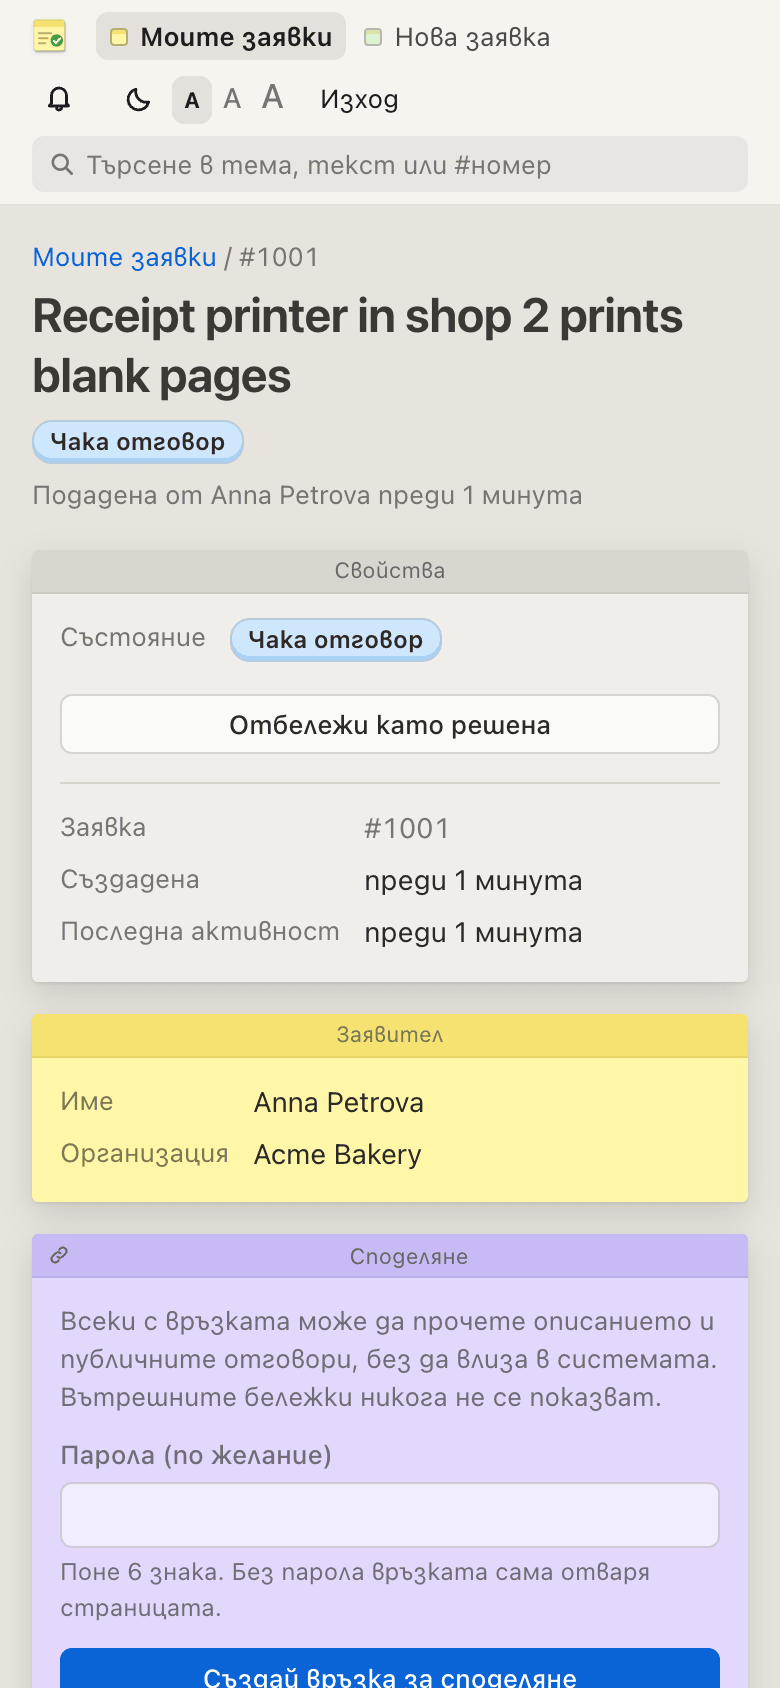
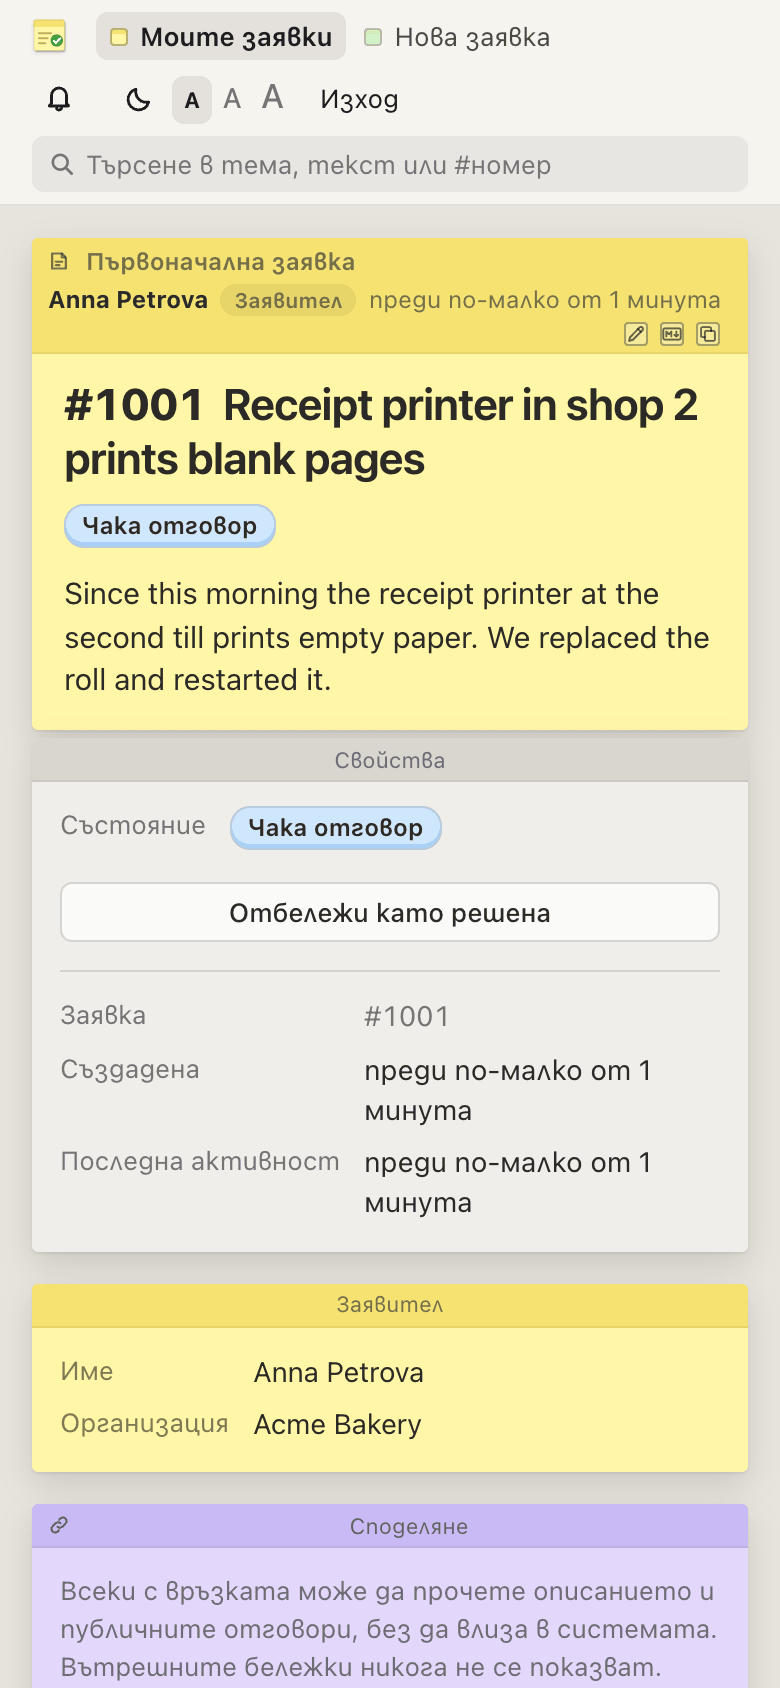
docs(readme): refresh the screenshots
The README screenshots now show the current look: the queue with
alternating rows, the ticket page with the request as one note and the
details in the title strips, the requester's phone view in Bulgarian
and the admin users list in the dark theme. Taken with make
screenshots from a scratch server with the fictional demo data.

diff --git a/session/2026-10-26-assignment-sharing.md b/session/2026-10-26-assignment-sharing.md
@@ -254,6 +254,11 @@ Operator requests, in order:
   subject at the heading's size. Checked in headless Chrome at 1280px,
   390px, editing and the shared page.
 
+- README screenshots refreshed with `make screenshots` against a scratch
+  server with the demo data (queue with row shading, ticket page with the
+  request note and title strips, requester phone view in Bulgarian, admin
+  users in the dark theme); scratch data removed afterwards.
+
 ## Decisions
 
 - Assign menu instead of auto-submitting selects: a keyboard arrow on a
